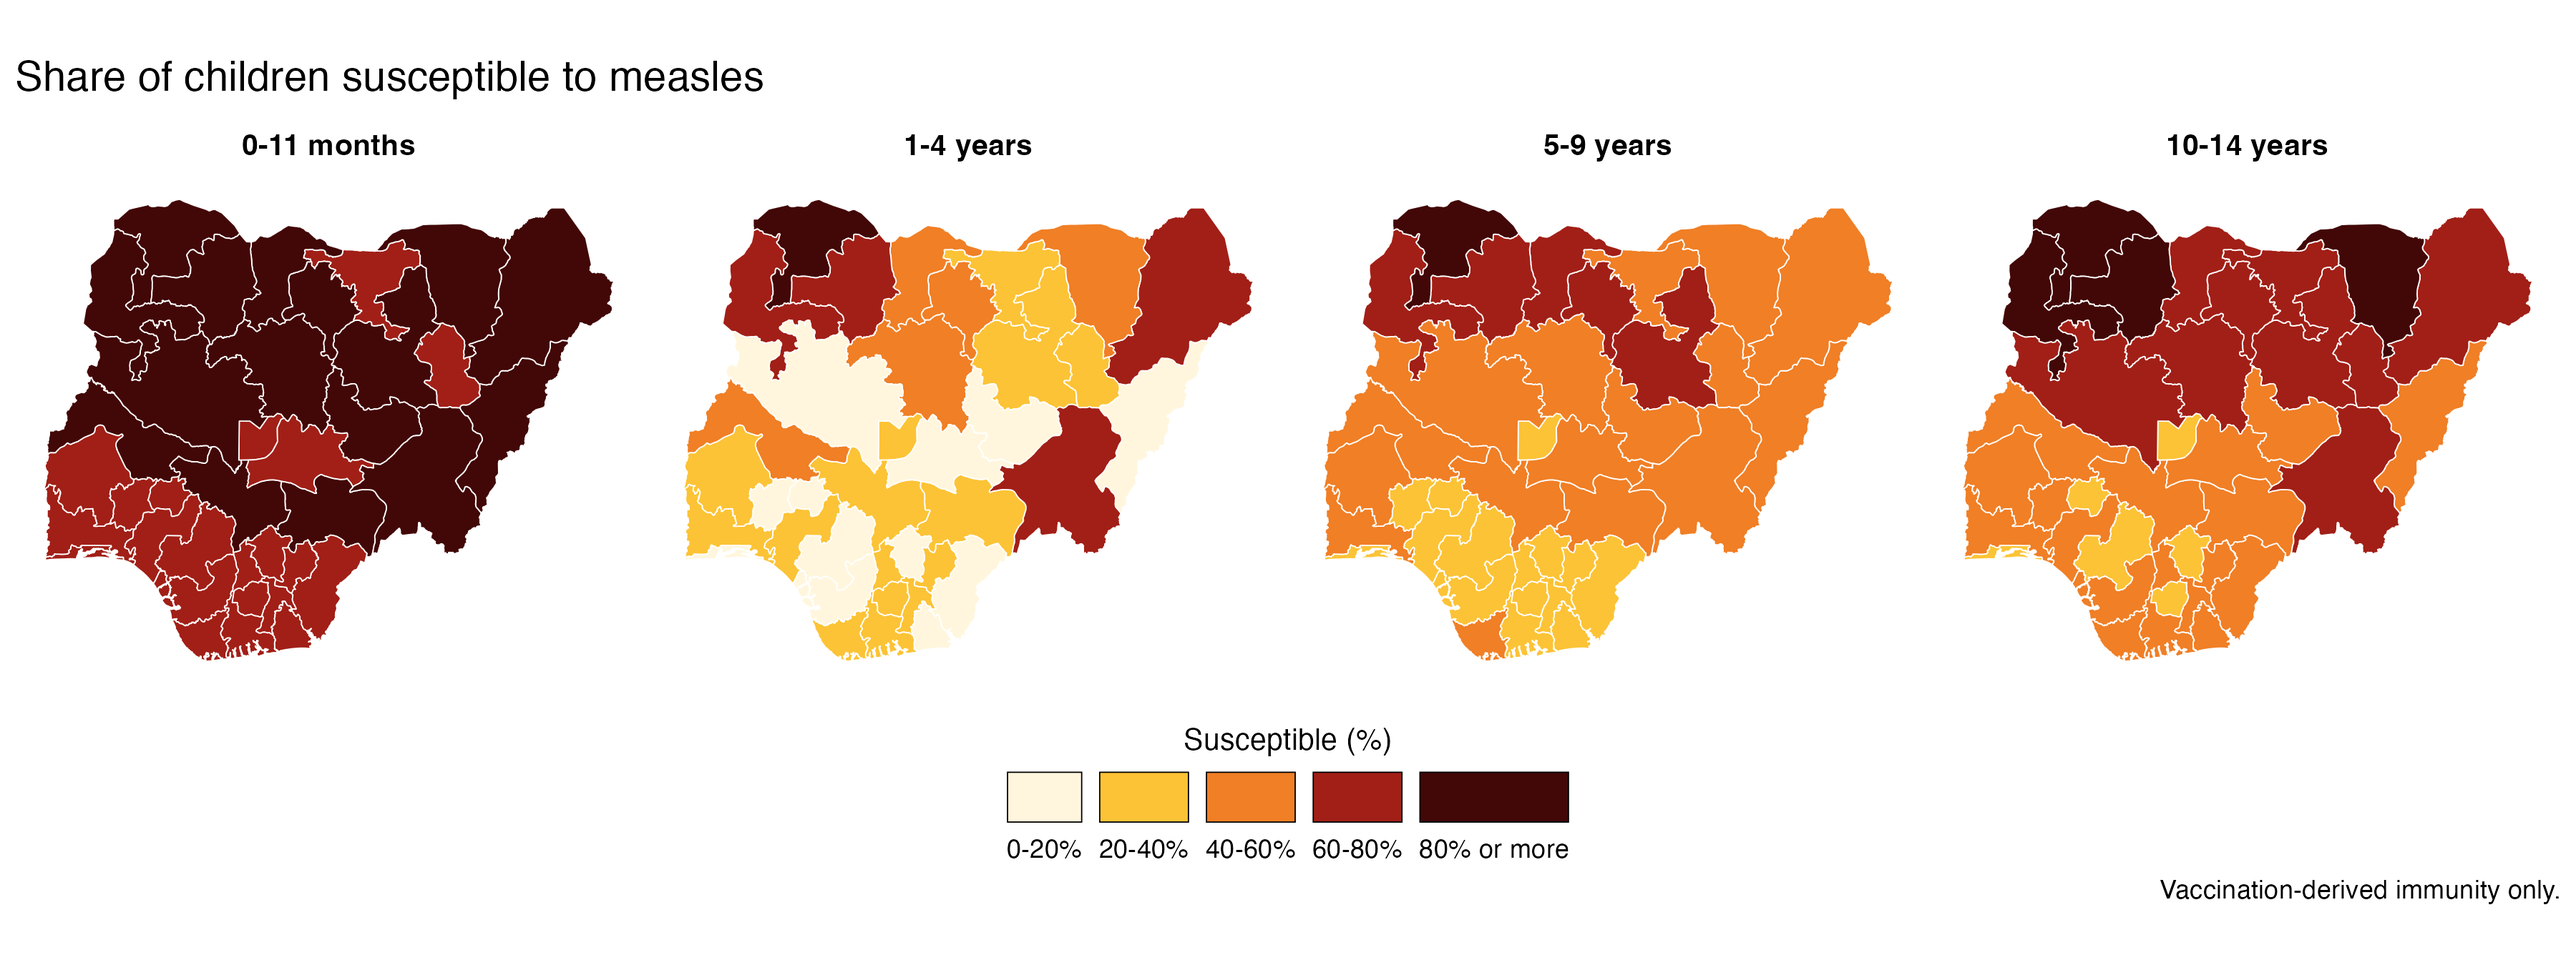
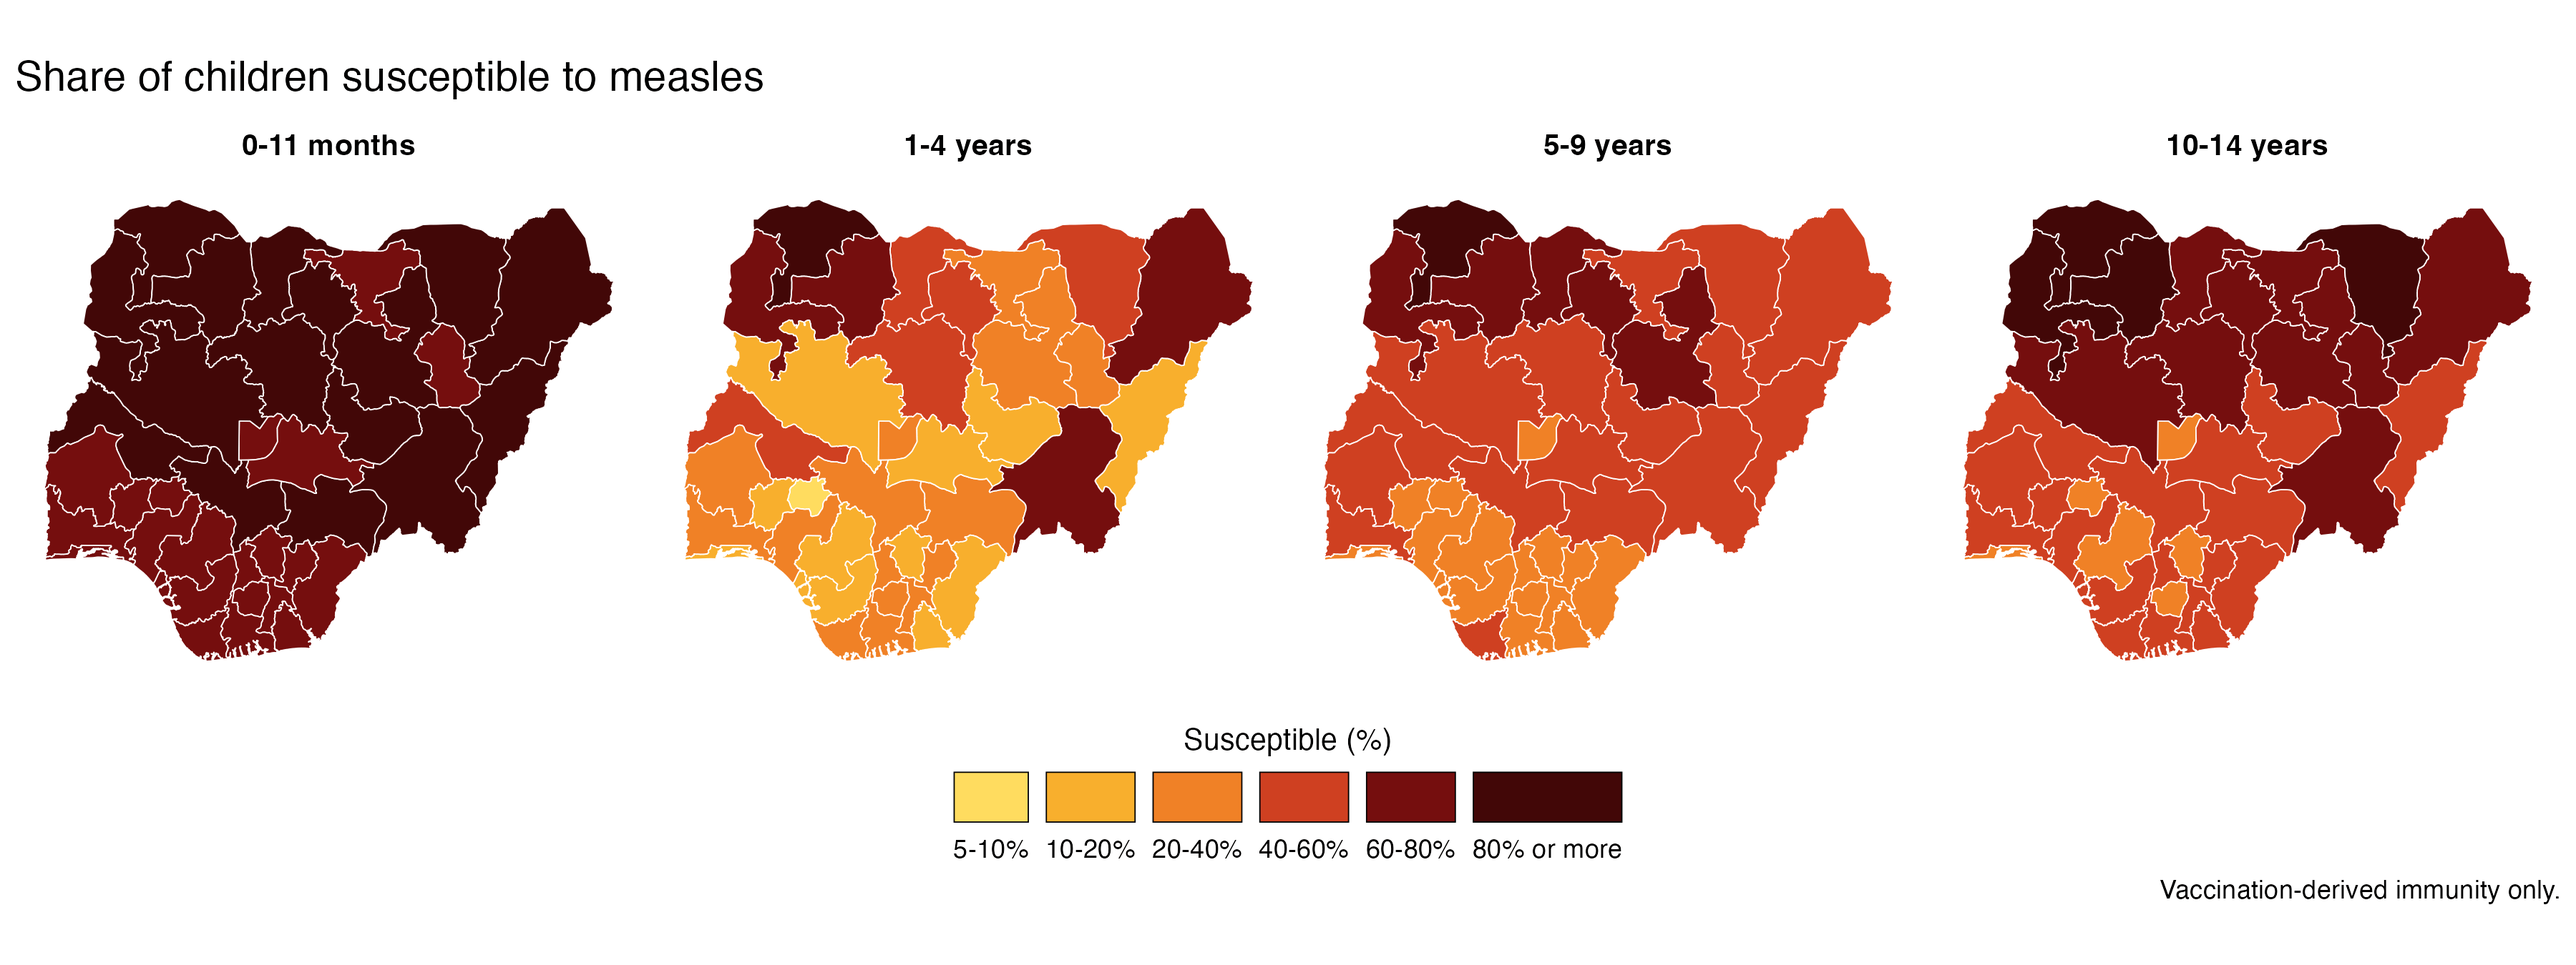
Update README and regenerate the Nigeria map with the new bins

diff --git a/README.md b/README.md
@@ -7,65 +7,71 @@
 **Spatiotemporal Measles Population Immunity Profiling**
 
 `mipR` is an R package for reconstructing and projecting measles population
-immunity across birth cohorts, geographical areas and calendar months.
+immunity by birth cohort, geographical area and calendar month.
 
-It integrates historical routine immunisation coverage, supplementary
-immunisation activities (SIAs) and vaccine effectiveness assumptions to
-estimate how population immunity and susceptibility change over time.
+It combines historical routine vaccination coverage, supplementary
+immunisation activities (SIAs), population estimates and vaccine
+effectiveness to estimate vaccination-derived immunity and susceptibility
+over time.
 
-The package is for subnational assessment of immunity gaps and for
-vaccination campaign planning.
+The package supports subnational assessments of immunity gaps and planning
+of measles vaccination campaigns.
 
 ## Why mipR?
 
-Measles outbreaks occur when sufficient numbers of susceptible individuals
-accumulate in a population. Understanding this risk requires more than
-current vaccination coverage.
+Current vaccination coverage does not describe the immunity of an entire
+population. Immunity depends on the vaccination opportunities available to
+each birth cohort, the proportion vaccinated and vaccine effectiveness.
 
-Vaccination coverage describes the proportion of a target population
-receiving a vaccine during a given period. Population immunity reflects the
-cumulative effects of historical vaccination opportunities, vaccine
-effectiveness, infection-acquired immunity and demographic changes.
+These factors vary by age, geographical area and calendar period.
+Reconstructing historical vaccination opportunities helps identify where
+susceptible populations have accumulated.
 
-These processes vary across birth cohorts and geographical areas.
+`mipR` allows analysts to examine:
 
-`mipR` reconstructs vaccination histories at monthly resolution, so analysts
-can examine:
-
-- which geographical areas have the largest immunity gaps
-- which birth cohorts and age groups remain susceptible
-- how susceptibility accumulates over time
-- how alternative vaccination strategies would change immunity, by running
-  the immunity steps again with different campaign or coverage inputs
+- geographical differences in vaccination-derived susceptibility
+- immunity gaps across birth cohorts and age groups
+- changes in susceptibility over time
+- the effects of alternative routine coverage and campaign assumptions on
+  estimated immunity
 
 ## What mipR does
 
 | Component | Functions |
 |---|---|
-| **Data acquisition** | `get_boundaries()`, `list_boundaries()` (OCHA, geoBoundaries, GADM, WHO); `get_worldpop()`, `get_worldpop_single_age()`; `get_ihme_mcv()`, `read_ihme_mcv_admin()`; `get_demog_wpp()` (UN WPP 2024 rates, age structure and mortality) |
-| **Spatial extraction** | `extract_raster()`, with population weighting and year matching for raster stacks |
-| **Population reconstruction** | `reconstruct_birth_cohorts()`, monthly birth cohorts calibrated to annual population estimates |
-| **Campaigns** | `prepare_campaigns()`, standard campaign records, survey indicators and diagnostics |
-| **Immunity estimation** | `build_vaccination_history()`, `estimate_immunity()`, `ve_cdc()`, `summarise_immunity()` |
-| **Checks and uncertainty** | `check_immunity()` against post-campaign surveys; `immunity_draws()` from coverage bounds |
-| **Visualisation** | `plot_cohort_journey()`, `plot_cohort_protection()`, `map_immunity()`, `get_palette()`, `save_plot()` |
+| **Population, vaccination and boundary data** | `get_boundaries()`, `list_boundaries()` (OCHA, geoBoundaries, GADM, WHO); `get_worldpop()`, `get_worldpop_single_age()`; `get_ihme_mcv()`, `read_ihme_mcv_admin()`; `get_demog_wpp()` (UN WPP 2024 rates, age structure and mortality) |
+| **Population-weighted raster extraction** | `extract_raster()`, with population weighting and year matching for raster stacks |
+| **Monthly birth cohort reconstruction** | `reconstruct_birth_cohorts()`, monthly birth cohorts calibrated to annual population estimates |
+| **Campaign data preparation** | `prepare_campaigns()`, standard campaign records, survey indicators and diagnostics |
+| **Vaccination histories and immunity estimation** | `build_vaccination_history()`, `estimate_immunity()`, `ve_cdc()`, `summarise_immunity()` |
+| **Survey comparisons and uncertainty** | `check_immunity()` against post-campaign surveys; `immunity_draws()` from coverage bounds |
+| **Cohort plots and immunity maps** | `plot_cohort_journey()`, `plot_cohort_protection()`, `map_immunity()`, `get_palette()`, `save_plot()` |
 
-Still planned: infection-acquired immunity and helpers for comparing
-vaccination scenarios. Scenarios can already be run by changing the
-campaign or coverage inputs and running the immunity steps again.
+Infection-acquired immunity and dedicated scenario-comparison functions are
+planned. Alternative vaccination scenarios can currently be evaluated by
+changing routine coverage or campaign inputs and rerunning the immunity
+calculations.
 
-A worked example for Nigeria at state level is in
-[`examples/nga_pipeline.R`](examples/nga_pipeline.R), with the campaign
-inputs prepared in
-[`examples/nga_campaign_data.R`](examples/nga_campaign_data.R).
+A worked state-level example for Nigeria is provided in
+[`examples/nga_pipeline.R`](examples/nga_pipeline.R). Campaign inputs are
+prepared in [`examples/nga_campaign_data.R`](examples/nga_campaign_data.R).
 
 ## Example: Nigeria
 
-The main steps of the Nigeria example are shown below. `aged_pop_admin`
-is the WorldPop population by state and single year of age from
-`extract_raster()`, `routine_coverage` holds the IHME MCV1 and MCV2
-coverage by state and year and `campaigns` comes from
-`prepare_campaigns()`.
+The Nigeria example reconstructs monthly birth cohorts, applies routine and
+campaign vaccination histories, and estimates vaccination-derived immunity at
+state level.
+
+The code below is an excerpt from that script. It uses four prepared inputs:
+
+- `aged_pop_admin`: state-level population by single year of age, extracted
+  from WorldPop
+- `routine_coverage`: annual IHME MCV1 and MCV2 coverage estimates by state
+- `campaigns`: campaign records prepared using `prepare_campaigns()`
+- `schedule`: the national routine schedule, with the age at each dose
+
+The complete workflow is available in
+[`examples/nga_pipeline.R`](examples/nga_pipeline.R).
 
 ```r
 shp <- mipR::get_boundaries(country = "NGA", adm_level = 1, source = "who")
@@ -102,16 +108,16 @@ mipR::plot_cohort_journey(
 )
 ```
 
-`map_immunity()` maps the share of children susceptible by state and age
-band.
+`plot_cohort_journey()` shows how immunity changes from birth for a
+selected cohort. States are selected across percentiles of susceptibility,
+with routine vaccination and campaign opportunities marked along the
+timeline.
 
-<img src="man/figures/nga_susceptible_map.png" alt="Share of children susceptible to measles by Nigerian state and age band, June 2025" width="100%" />
+<img src="man/figures/nga_cohort_journey.png" alt="Vaccination-derived immunity and susceptibility for the October 2019 birth cohort across nine Nigerian states" width="100%" />
 
-`plot_cohort_journey()` follows one birth cohort from birth, in states
-picked at percentiles of its susceptible share, with arrows for the
-routine doses and the campaigns that reached it.
+`map_immunity()` displays estimated susceptibility by state and age group.
 
-<img src="man/figures/nga_cohort_journey.png" alt="Susceptible and vaccination-immune shares of the cohort born in October 2019, in nine Nigerian states from the 10th to the 90th percentile of susceptibility" width="100%" />
+<img src="man/figures/nga_susceptible_map.png" alt="Estimated vaccination-derived susceptibility by state and age group, Nigeria, June 2025" width="100%" />
 
 These figures use population from 2010 onwards and include
 vaccination-derived immunity only.
@@ -120,14 +126,22 @@ vaccination-derived immunity only.
 
 ### The CDC immunity profile method
 
-`mipR` follows the measles population immunity profile method of Li,
-Goodson and Perry (2024). For one birth cohort, Figure 1 of that paper
-builds the immune share $`I`$ dose by dose. With MCV1 coverage $`C_1`$ and
-effectiveness $`E_1`$, and MCV2 coverage $`C_2`$ and effectiveness $`E_2`$:
+`mipR` implements the vaccination-based population immunity profiling
+method described by Li, Goodson and Perry (2024).
+
+The method estimates immunity for each birth cohort by applying routine
+vaccination and campaign coverage sequentially, accounting for vaccine
+effectiveness and previous vaccination.
+
+For MCV1 coverage $`C_1`$ and effectiveness $`E_1`$, the immune proportion
+after the first dose is:
 
 ```math
 I_1 = C_1 E_1
 ```
+
+With MCV2 coverage $`C_2`$ and effectiveness $`E_2`$, the immune proportion
+after the second dose is:
 
 ```math
 I_2 =
@@ -137,9 +151,9 @@ I_1 + (C_1 - I_1)\,E_2 + (C_2 - C_1)\,E_2 & \text{if } C_2 \ge C_1
 \end{cases}
 ```
 
-The share ever vaccinated is $`V = \max(C_1, C_2)`$. Each campaign $`k`$ that
-targets the cohort, with coverage $`S_k`$ and effectiveness $`E_k`$, then
-updates the immune share:
+The proportion receiving at least one dose is $`V = \max(C_1, C_2)`$. For
+each subsequent campaign $`k`$, with coverage $`S_k`$ and effectiveness
+$`E_k`$, immunity is updated as follows:
 
 ```math
 I \leftarrow
@@ -149,20 +163,30 @@ I + (S_k - I)\,E_k, \quad V \leftarrow S_k & \text{if } S_k \ge V
 \end{cases}
 ```
 
-and the susceptible share is $`1 - I`$. The method assumes a campaign
-reaches children who were already vaccinated before children with no dose.
-Effectiveness depends on the dose type and the age at the dose: for MCV1
-and campaign doses it is 0.58 below 9 months, 0.84 at 9 to 11 months and
-0.925 (MCV1) or 0.95 (campaigns) from 12 months; MCV2 is 0.95 (`ve_cdc()`).
+The susceptible proportion is $`1 - I`$.
 
-### Extending it in space and time
+The default dependent vaccination assumption prioritises previously
+vaccinated children over those who have received no doses. This is the
+assumption of the original method. `estimate_immunity()` also supports
+independent and complementary allocation through its `coupling` argument.
 
-`mipR` applies the same arithmetic to every geography and every monthly
-birth cohort, and reports it for every calendar month.
+Vaccine effectiveness varies by dose and age at vaccination. The values
+implemented in `ve_cdc()` are:
 
-**Indices.** $`g`$ is a geography, $`c`$ a monthly birth cohort covering the
+- MCV1 and campaign doses below 9 months: 0.58
+- MCV1 and campaign doses at 9–11 months: 0.84
+- From 12 months: 0.925 for MCV1 and 0.95 for campaign doses
+- MCV2: 0.95
+
+### Spatiotemporal implementation
+
+`mipR` extends the cohort-based vaccination calculations across geographical
+areas and monthly birth cohorts. Immunity and susceptibility are estimated
+for each calendar month.
+
+**Notation.** $`g`$ is a geography, $`c`$ a monthly birth cohort covering the
 birth dates $`[b_c, b_{c+1})`$, $`t`$ a calendar month and $`k`$ a vaccination
-opportunity. Monthly values refer to the 15th of the month.
+opportunity. Monthly estimates are referenced to the 15th day of each month.
 
 **Population.** The population of cohort $`c`$ in geography $`g`$ and month
 $`t`$ is
@@ -174,9 +198,10 @@ N_{g,c,t} = B_{g,c}\,\ell_c(t)
 where $`B_{g,c}`$ is the number of births and $`\ell_c(t)`$ the share surviving
 to month $`t`$, from UN WPP single-age mortality.
 `reconstruct_birth_cohorts()` estimates $`B_{g,c}`$ from annual population
-estimates $`P_{g,a,y}`$ (for example WorldPop) by single year of age $`a`$:
-each estimate is shared across the birth months it covers and divided by
-survival, and the births are fitted so that
+estimates $`P_{g,a,y}`$ (for example WorldPop) by single year of age $`a`$.
+Annual age-specific population estimates are allocated across the
+corresponding birth months and adjusted for survival. The births are fitted
+so that
 
 ```math
 \sum_{c \in C(a,y)} B_{g,c}\,\ell_c(t_y)\,w_{c,a,y} \approx P_{g,a,y}
@@ -184,13 +209,13 @@ survival, and the births are fitted so that
 
 within a tolerance, where $`C(a,y)`$ are the cohorts aged $`a`$ on the
 reference date $`t_y`$ and $`w_{c,a,y}`$ is the share of cohort $`c`$ inside
-that age. Estimates that disagree with the rest are down-weighted rather than
-forced, and the remaining differences are reported.
+that age. Inconsistent population estimates receive lower weights during
+fitting. Remaining differences are reported.
 
-**Eligibility.** Births are spread evenly over the days of the birth month.
-The share of cohort $`c`$ eligible for opportunity $`k`$ is the share of its
-birth dates $`d`$ whose age is in the target range at some time during the
-opportunity:
+**Eligibility.** Births are assumed to be uniformly distributed across days
+within each month. The share of cohort $`c`$ eligible for opportunity $`k`$
+is the share of its birth dates $`d`$ whose age is in the target range at
+some time during the opportunity:
 
 ```math
 e_{c,k} = \frac{1}{|D_c|} \sum_{d \in D_c}
@@ -202,7 +227,8 @@ so a cohort born in January becomes eligible for MCV1 at 9 months over the
 days of October, and a campaign reaches only the part of a cohort inside
 its target ages.
 
-**Coverage.** The share of the cohort reached by opportunity $`k`$ is
+**Coverage.** Estimated coverage for each cohort and vaccination opportunity
+$`k`$ is
 
 ```math
 r_{g,c,k} = \text{coverage}_{g,k} \times e_{c,k}
@@ -212,11 +238,13 @@ with routine coverage for the calendar year of the dose (IHME, by
 geography) and campaign coverage from post-campaign surveys, or coverage
 reported by the campaign where no survey exists.
 
-**State.** Each cohort is split into shares $`\pi_{g,c}(s)`$ by state
+**State.** Each cohort is represented by proportions $`\pi_{g,c}(s)`$ in
+vaccination and protection states
 $`s = (\text{doses}, \text{MCV1 received}, \text{protected})`$. An
-opportunity reaches $`r_{g,c,k}`$ of the cohort, filling groups of states in
-order: MCV2 reaches MCV1 recipients first; with the dependent rule (the
-CDC default) children with any dose are reached before children with none.
+opportunity reaches $`r_{g,c,k}`$ of the cohort, with allocation determined
+by the specified vaccination-dependence assumption: MCV2 reaches MCV1
+recipients first; with the dependent rule (the CDC default) children with
+any dose are reached before children with none.
 Reached children who are not protected become protected with probability
 $`E_k`$. With full eligibility and national coverage this reproduces the
 Figure 1 formulas above exactly.
@@ -237,14 +265,17 @@ U_{g,c,t} = N_{g,c,t} \sum_{s:\,\text{not protected}} \pi_{g,c}(s, t)
 ```
 
 and `summarise_immunity()` adds $`U_{g,c,t}`$ and $`N_{g,c,t}`$ over the
-cohorts in each age band. Infants younger than 6 months are treated as
-protected by maternal antibodies and left out of summaries. Immunity from
-infection is not yet included.
+cohorts in each age band. Infants younger than 6 months are flagged as
+protected by maternal antibodies and left out of summaries by default; their
+state proportions are not changed. Immunity from infection is not yet
+included.
 
-**Uncertainty.** `immunity_draws()` repeats the calculation with coverage
-drawn on the logit scale from its 95% interval (IHME bounds for routine
-coverage, survey intervals for campaigns), correlated across years and
-between MCV1 and MCV2.
+**Uncertainty.** `immunity_draws()` propagates uncertainty in routine and
+campaign coverage through repeated immunity calculations. Coverage is drawn
+on the logit scale from its 95% interval (IHME bounds for routine coverage,
+survey intervals for campaigns), correlated across years and between MCV1
+and MCV2. The intervals reflect uncertainty in coverage only, not in
+population estimates, vaccine effectiveness or model structure.
 
 ## Installation
 
@@ -258,21 +289,21 @@ pak::pak("truenomad/mipR")
 
 ## Development status
 
-`mipR` is in active development. The functions above work and are tested,
-but their interfaces may still change before the first release.
+`mipR` is under active development. The functions documented above are
+implemented and tested, but their interfaces may change before the first
+release.
 
 ## Reference
 
-The method is described in:
+`mipR` builds on the population immunity profiling method described by:
 
 Li X, Goodson JL, Perry RT. (2024). Measles Population Immunity Profiles:
 Updated Methods and Tools. *Vaccines*, 12(8), 937.
 
-https://doi.org/10.3390/vaccines12080937
+[https://doi.org/10.3390/vaccines12080937](https://doi.org/10.3390/vaccines12080937)
 
-`mipR` is an independently developed open-source package. It is not
-affiliated with or endorsed by the US Centers for Disease Control and
-Prevention.
+`mipR` is independently developed and is not affiliated with or endorsed by
+the US Centers for Disease Control and Prevention.
 
 ## Citation
 
